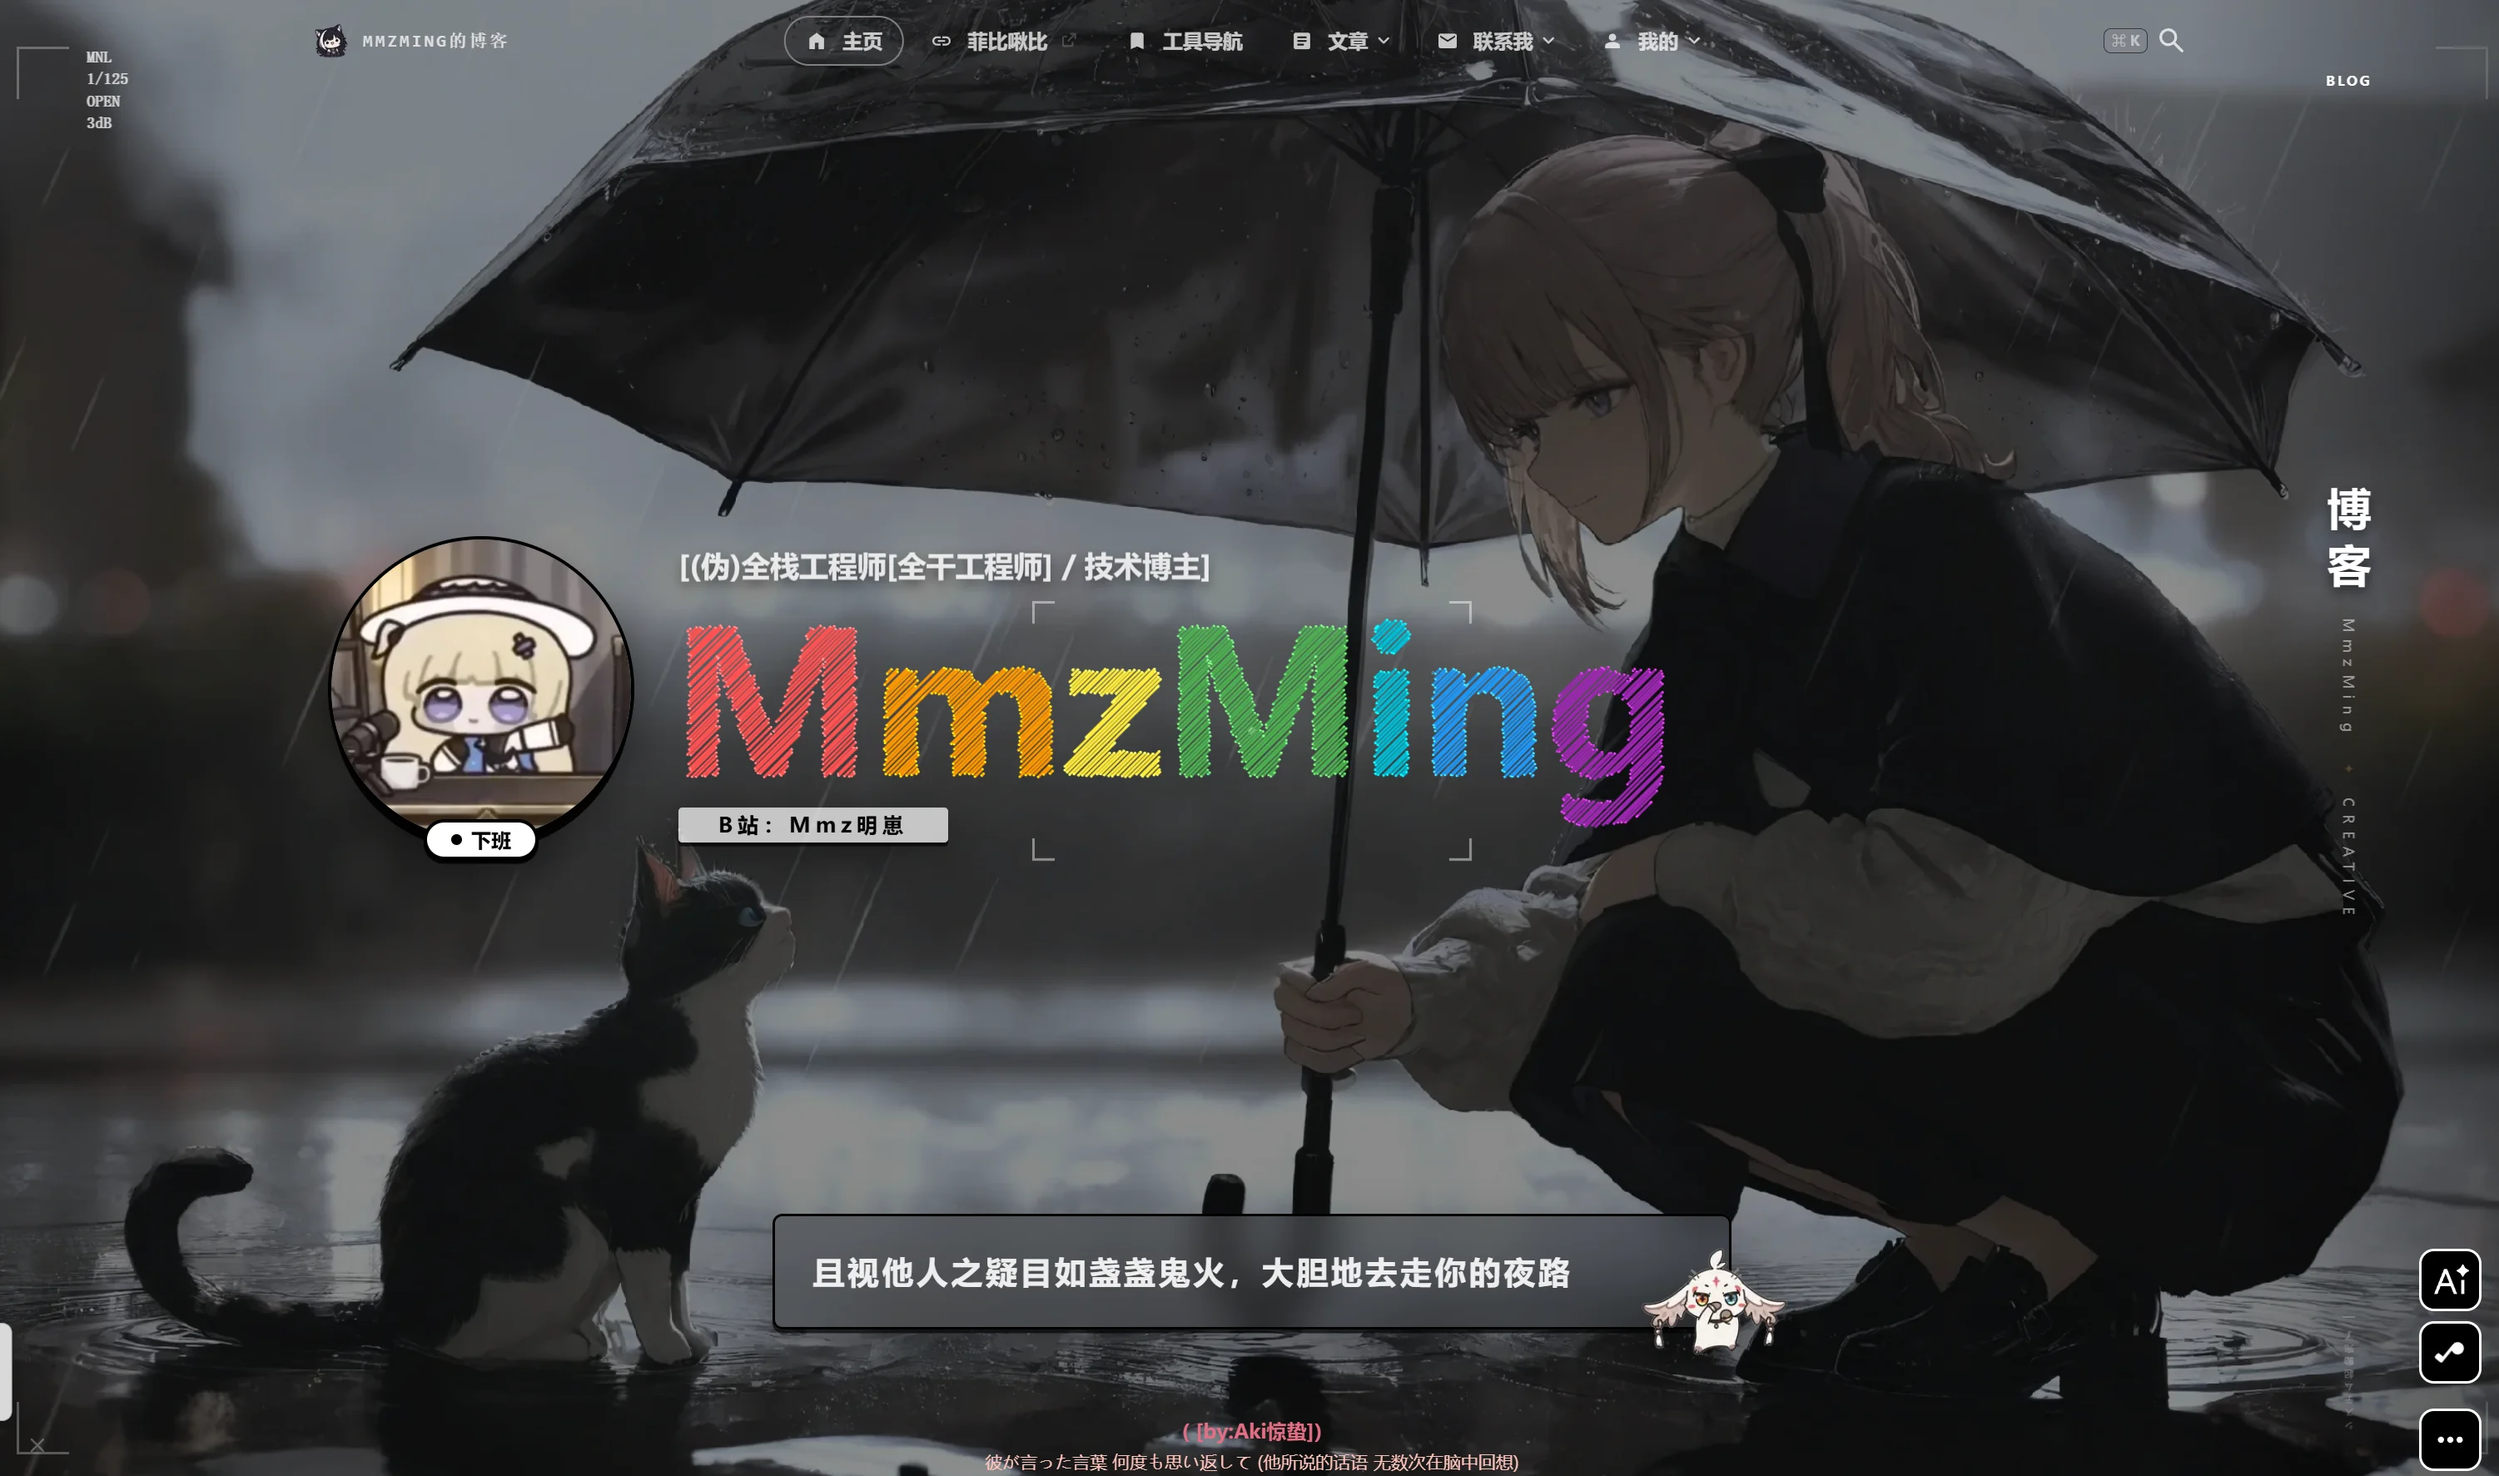
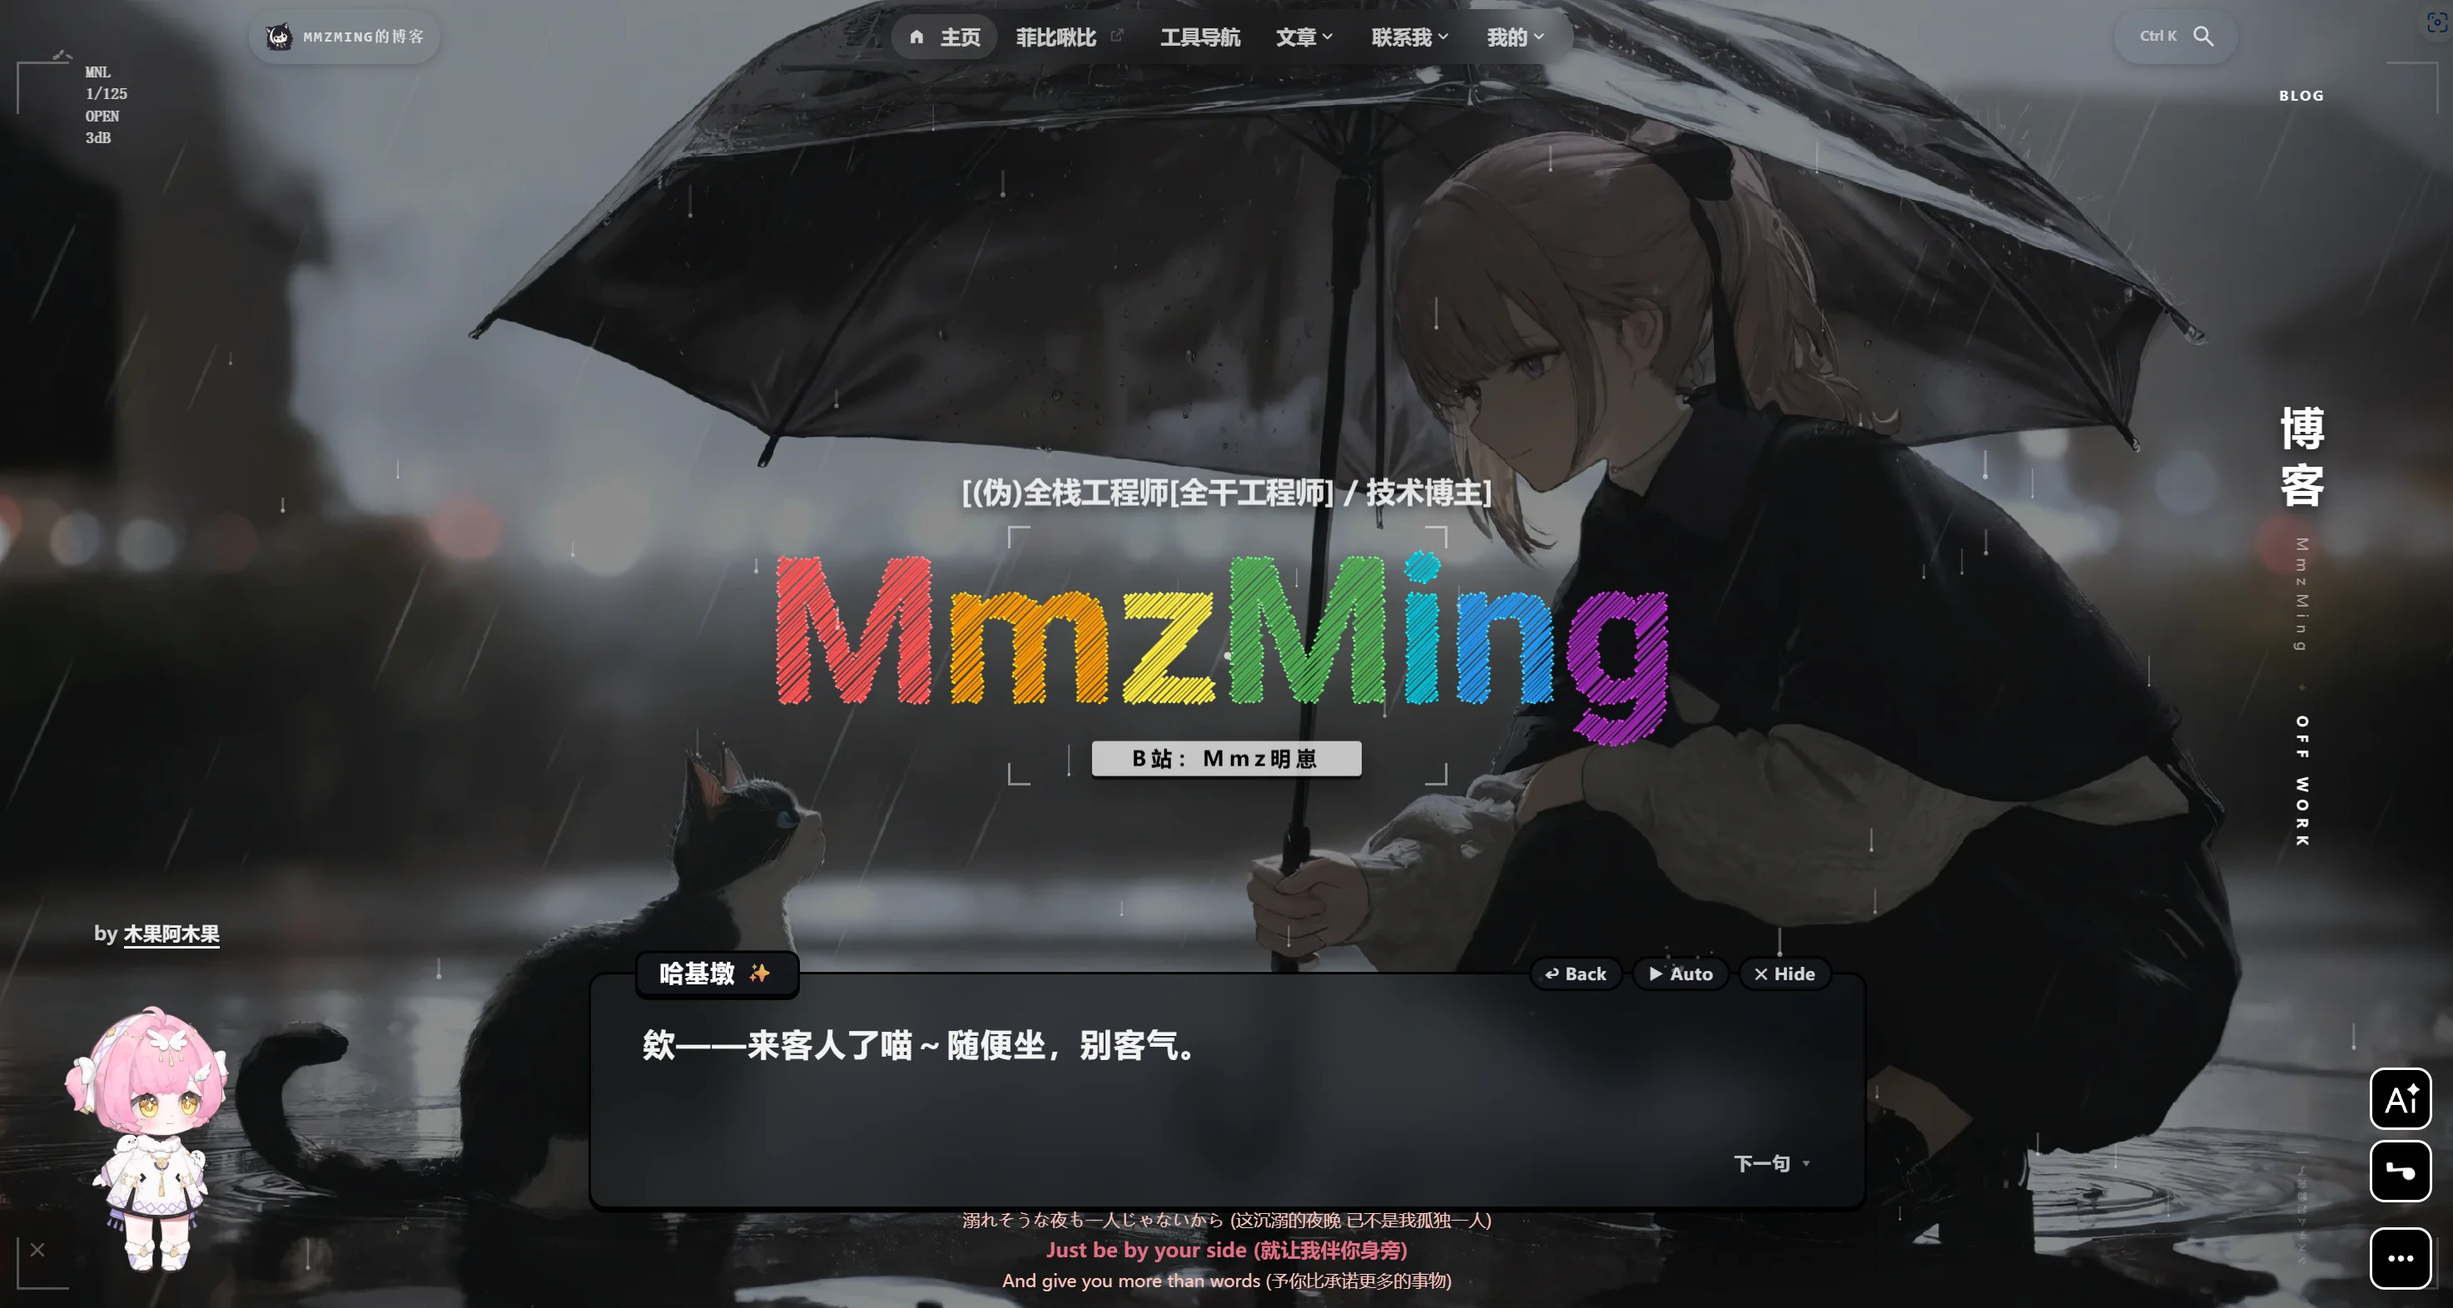
Implement code changes to enhance functionality and improve performance

diff --git a/README.md b/README.md
@@ -1,6 +1,6 @@
 # Firefly-Mod
 
-> 基于 [Firefly](https://github.com/CuteLeaf/Firefly) 的个人博客魔改版 `V2.5.0`
+> 基于 [Firefly](https://github.com/CuteLeaf/Firefly) 的个人博客魔改版 `V2.5.1`
 
 ![Node.js >= 22](https://img.shields.io/badge/node.js-%3E%3D22-brightgreen)
 ![pnpm >= 9](https://img.shields.io/badge/pnpm-%3E%3D9-blue)
@@ -12,7 +12,13 @@
 ![Swup](https://img.shields.io/badge/Swup-4.x-%237467EF)
 ![Pagefind](https://img.shields.io/badge/Pagefind-1.x-%234B5563)
 
+PC端
+
 <img alt="博客预览" src="./docs/images/image.webp" />
+
+移动端
+
+<img alt="博客预览移动端" src="./docs/images/image-mobile.webp" />
 
 ## 项目概述
 
